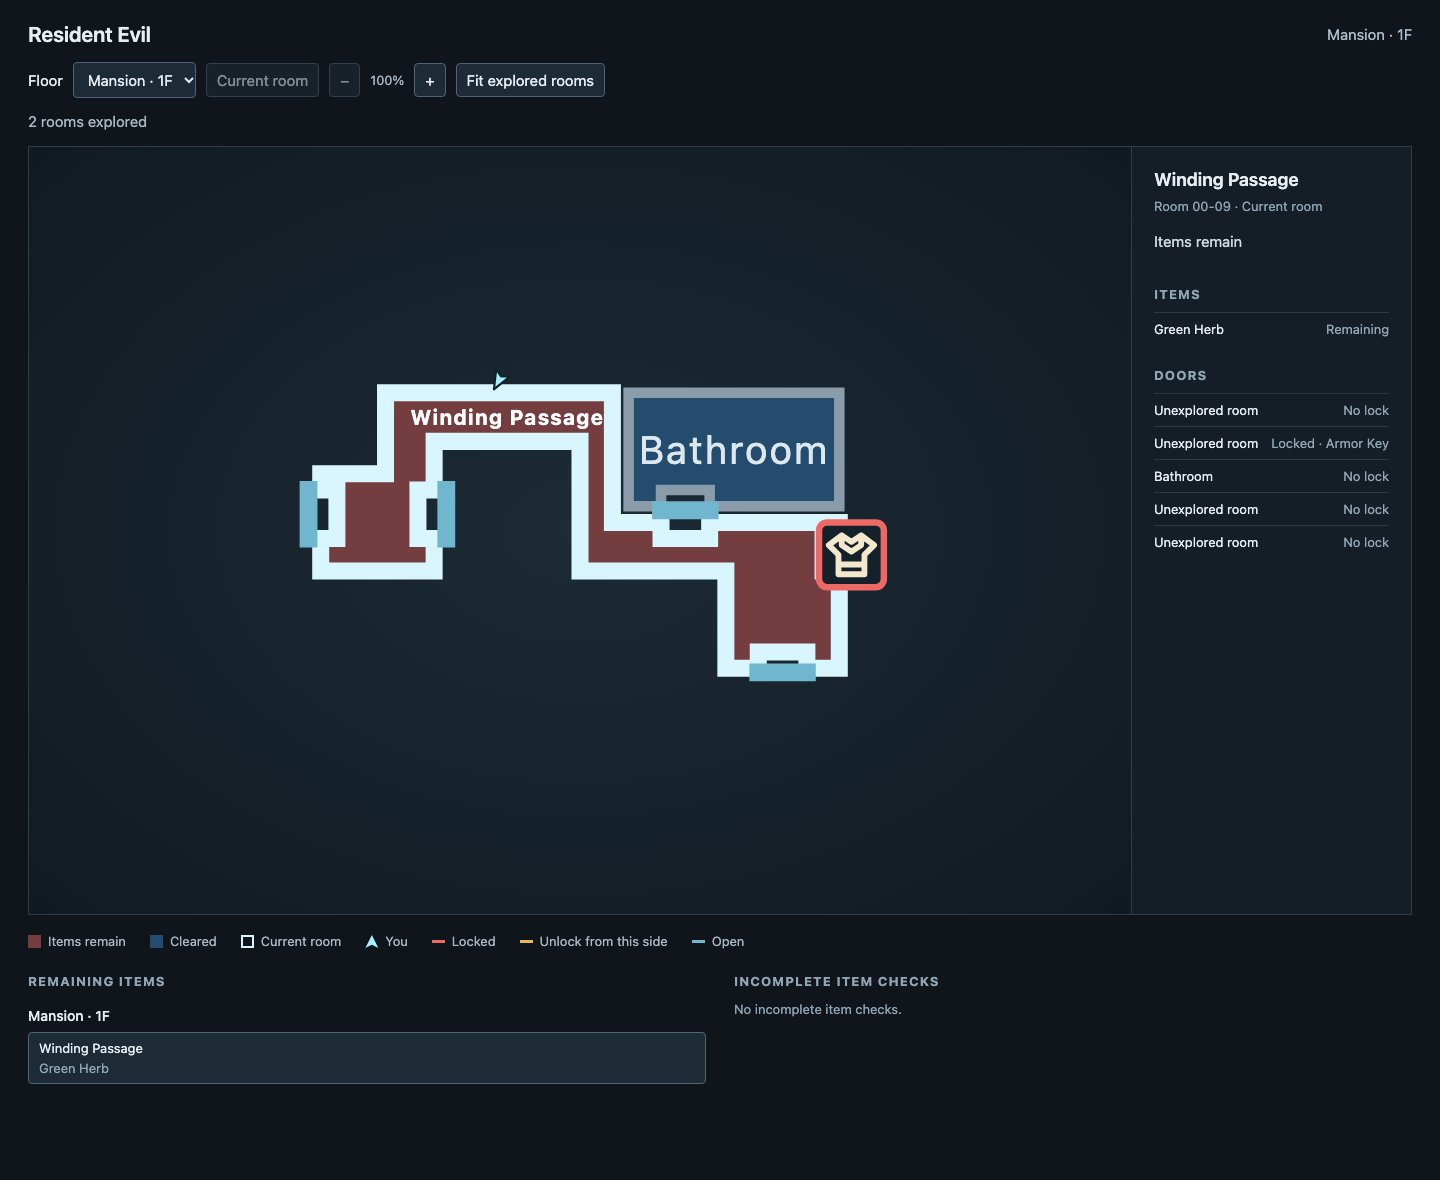
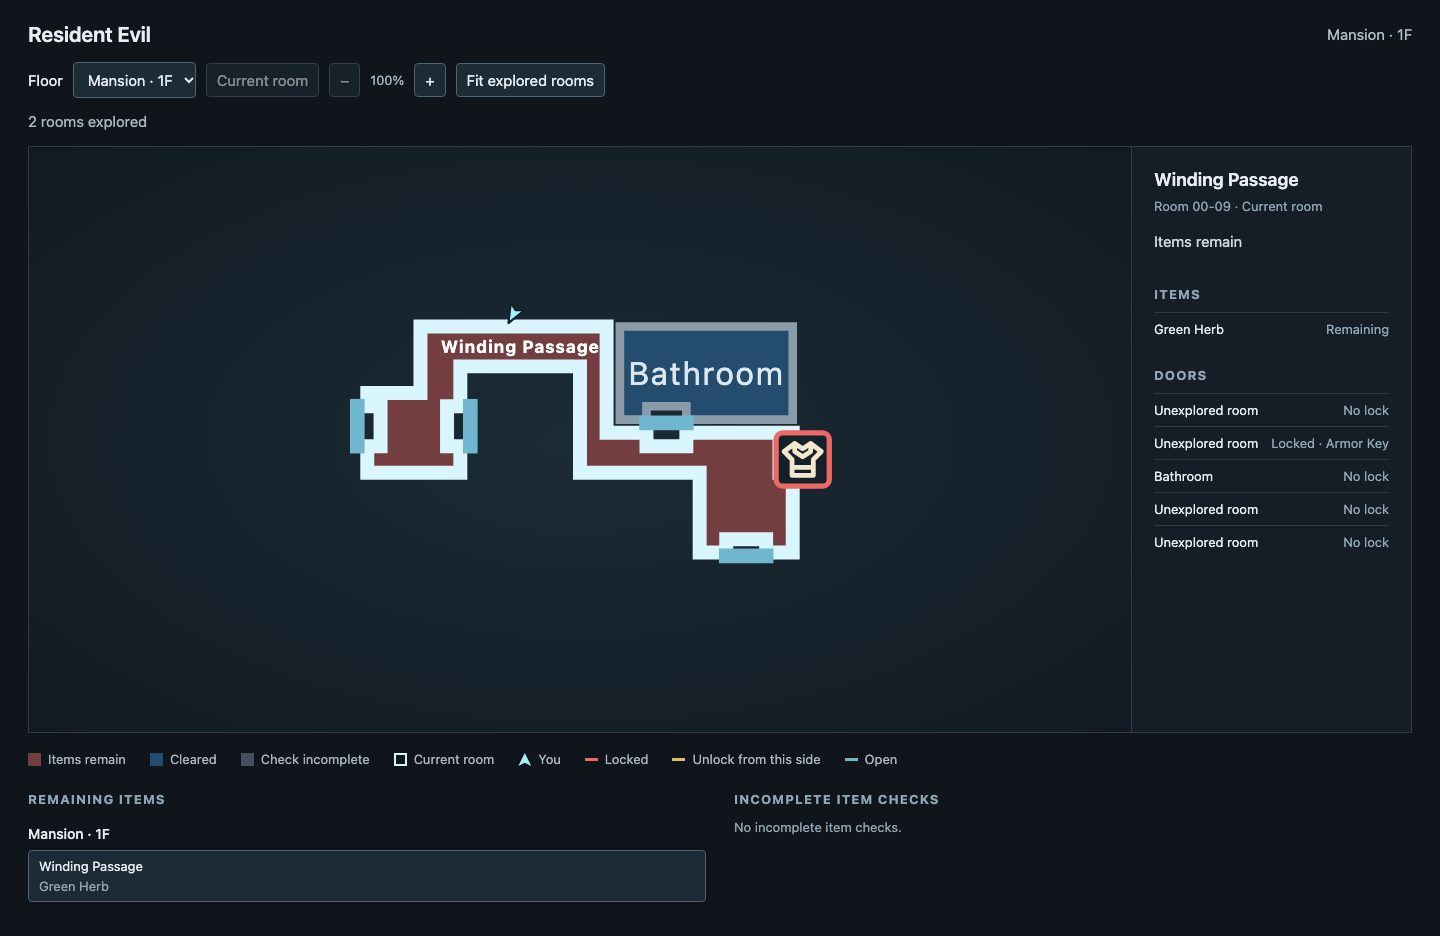
feat(ui): name the unresolved room color in the map legend
Gray rooms previously had no legend entry, so only the side panel
explained the incomplete check. Pin the neutral fill to an explicit
UNKNOWN rule and label it alongside the red and blue states.

Author: opencode/muse-spark-1.3-contributor-free

diff --git a/src/ui/map_view.py b/src/ui/map_view.py
@@ -180,6 +180,9 @@ svg { display:block; width:100%; height:65vh; min-height:410px; }
 .room path { stroke:#8a9ca9; stroke-width:.65; fill:#42515d; stroke-linejoin:miter; }
 .room.INCOMPLETE path { fill:#743e40; }
 .room.CLEARED path { fill:#244c6e; }
+/* Unresolved rooms keep the neutral fill explicitly so a future default
+cannot merge them with a decided state. */
+.room.UNKNOWN path { fill:#42515d; }
 .room.current path { stroke:#d9f6ff; stroke-width:1.05; }
 .room.selected:not(.current) path { stroke:#f0cf8c; }
 .room text { fill:#dce7ee; font:2.6px system-ui,sans-serif; pointer-events:none; text-anchor:middle; }
@@ -236,6 +239,7 @@ li span:last-child { color:#94a7b6; text-align:right; }
 <div id="legend">
 <span><i class="key" style="background:#743e40"></i>Items remain</span>
 <span><i class="key" style="background:#244c6e"></i>Cleared</span>
+<span><i class="key" style="background:#42515d"></i>Check incomplete</span>
 <span><i class="key" style="border:2px solid #d9f6ff;box-sizing:border-box"></i>Current room</span>
 <span><i class="key player-key"></i>You</span>
 <span><i class="key door-key" style="background:#ed6965"></i>Locked</span>

diff --git a/tests/test_map_view.py b/tests/test_map_view.py
@@ -119,6 +119,8 @@ def test_map_server_serves_page_and_current_snapshot(caplog):
         page = response.read().decode()
         assert response.status == 200
         assert "Winding Passage" in page
+        assert "Check incomplete" in page
+        assert ".room.UNKNOWN path" in page
         connection.close()
 
         snapshot = {

diff --git a/docs/testing.md b/docs/testing.md
@@ -16,7 +16,7 @@ python3 tools/track.py --map
 
 Open http://127.0.0.1:8765 and leave the terminal running. Stop with Ctrl+C.
 
-The tracker automatically switches among eleven floor plans across the Mansion, Courtyard, Guardhouse and Laboratory. Rooms reveal only when the tracker observes entry. Collecting an in-game map does not reveal extra rooms. Red rooms have available items remaining, blue rooms are cleared, and the white outline and cyan arrow mark the current room. The arrow follows Jill's facing direction and marks room identity rather than exact position within the room. Select an explored room to see its items and directional door locks. Wall symbols identify named key types independently of locked/open access. Sword, Armor, Shield and Helmet use distinct emblems; other named keys use a key silhouette with their exact label in the tooltip and door list. Locks with no established key identity have no emblem. Exploration resumes across tracker restarts and remains revealed after earlier savestate loads. Item and door states are rebuilt from the loaded game, not stored verdicts.
+The tracker automatically switches among eleven floor plans across the Mansion, Courtyard, Guardhouse and Laboratory. Rooms reveal only when the tracker observes entry. Collecting an in-game map does not reveal extra rooms. Red rooms have available items remaining, blue rooms are cleared, gray rooms need a further item check, and the white outline and cyan arrow mark the current room. The arrow follows Jill's facing direction and marks room identity rather than exact position within the room. Select an explored room to see its items and directional door locks. Wall symbols identify named key types independently of locked/open access. Sword, Armor, Shield and Helmet use distinct emblems; other named keys use a key silhouette with their exact label in the tooltip and door list. Locks with no established key identity have no emblem. Exploration resumes across tracker restarts and remains revealed after earlier savestate loads. Item and door states are rebuilt from the loaded game, not stored verdicts.
 
 The Floor selector lists explored floors and the current floor. Selecting a floor keeps that view while gameplay continues. Current room returns to the player's outline and resumes automatic floor switching. Browsed rooms use the same fresh item and door results as the live floor. During an unreadable game state, controls are disabled and item/door verdicts are cleared until a coherent poll returns.
 

diff --git a/README.md b/README.md
@@ -31,7 +31,7 @@ The GDB server is built into DuckStation. You do not need to install or start a 
 
 Keep the terminal running while you play. Press Ctrl+C there to stop the tracker.
 
-Rooms appear as you enter them. Red means items remain; blue means cleared. The cyan arrow identifies your current room and rotates with Jill's facing direction. The white outline also marks the current room. Click a room to see its items and doors.
+Rooms appear as you enter them. Red means items remain; blue means cleared; gray means the item check is incomplete. The cyan arrow identifies your current room and rotates with Jill's facing direction. The white outline also marks the current room. Click a room to see its items and doors.
 
 Stair treads and rails appear inside explored room outlines.
 
